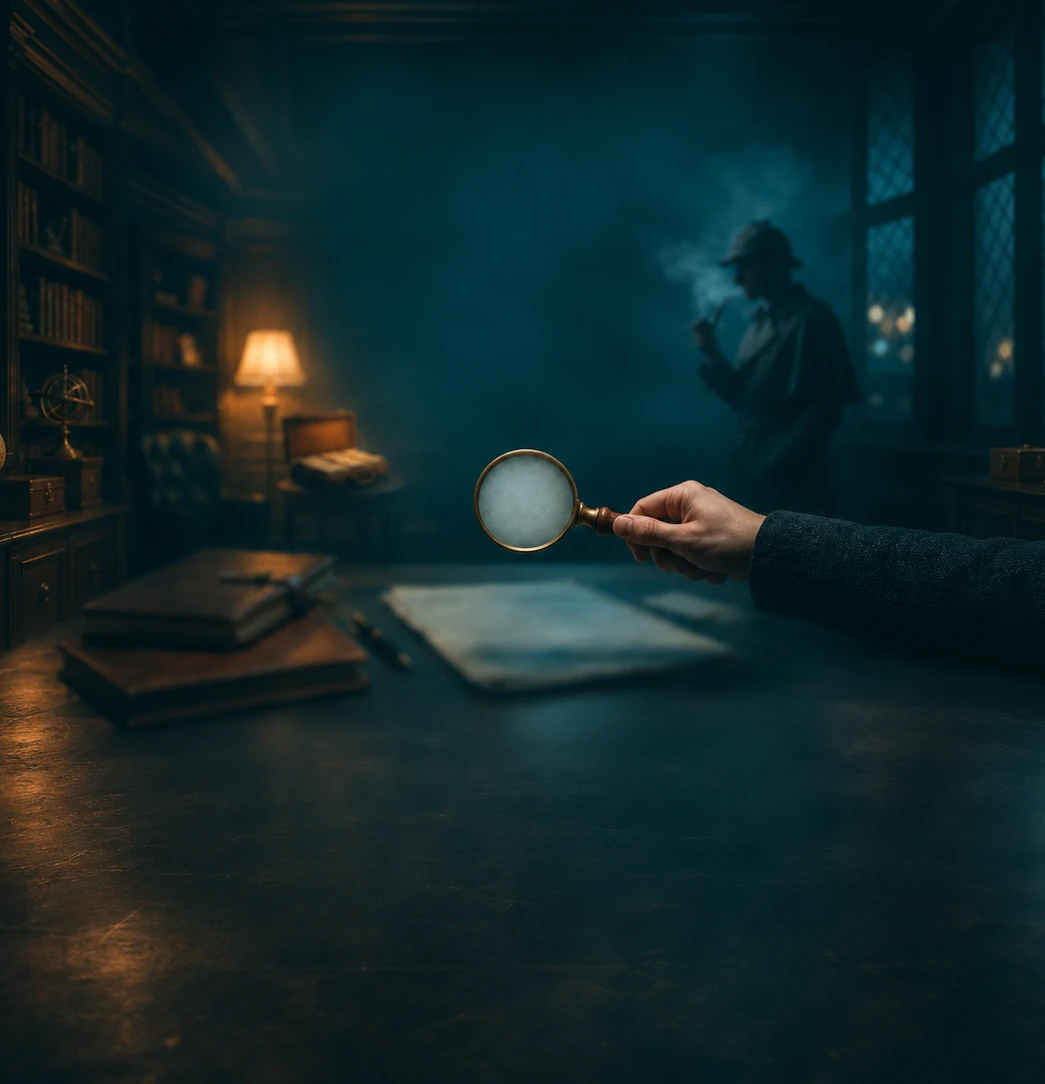
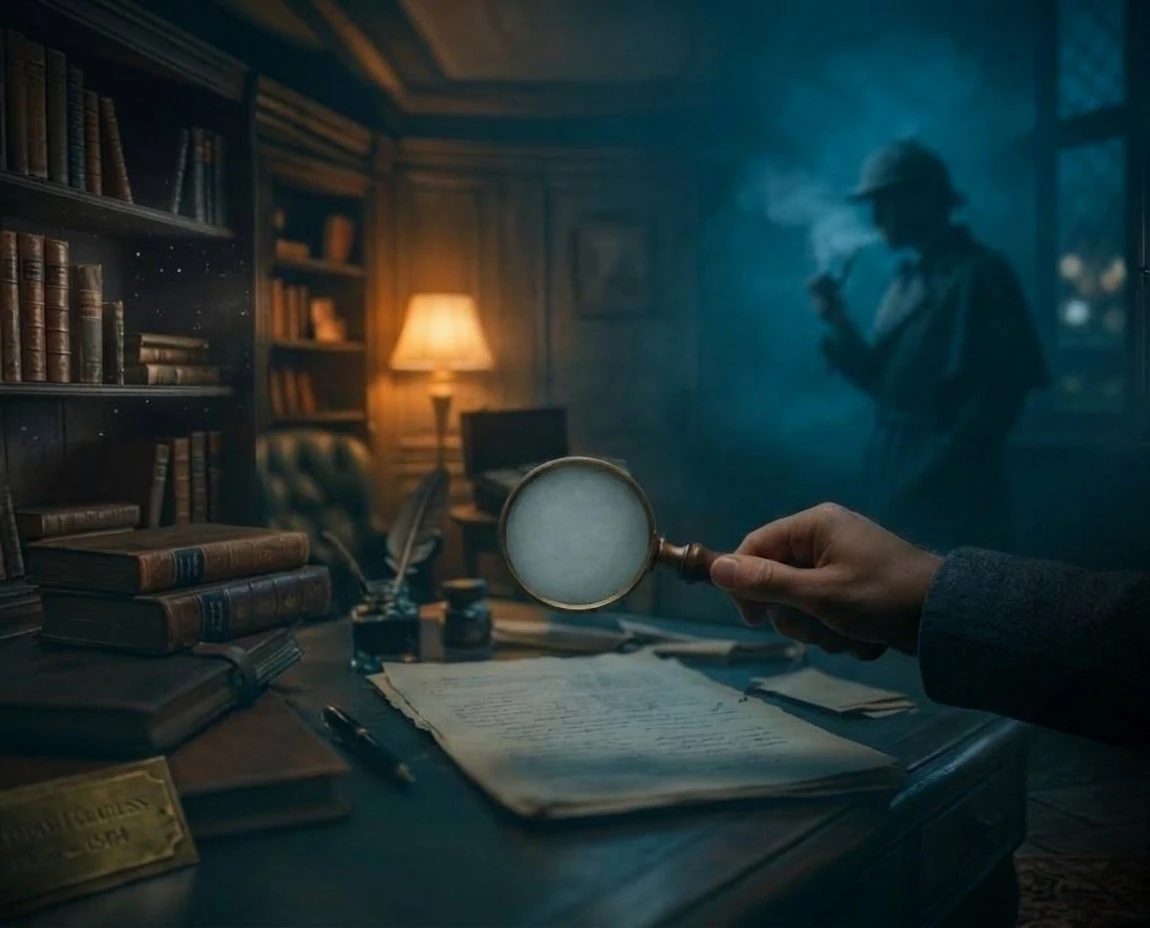
wip(landing): the new background photograph (1150x928), lens anchored as before — not pushed, waits for Nuno to see it (03/11/2026)

diff --git a/src/app/landing-fixed.css b/src/app/landing-fixed.css
@@ -8,7 +8,7 @@
   --vh:1vh; --bar-h:calc(56px + env(safe-area-inset-bottom,0px));
   --lx:50vw; --ly:calc(var(--vh) * 46); --ld:calc(var(--vh) * 18);
   --d:clamp(40px,calc(var(--ld) * .39),80px); --gap:calc(var(--d) * .37); --first:calc(var(--ld) / 2 + var(--gap) + var(--d) / 2); --step:calc(var(--d) + var(--gap));
-  --pw:calc(var(--ld) / .102); --ph:calc(var(--pw) * 1.0373206);
+  --pw:calc(var(--ld) / .1409); --ph:calc(var(--pw) * .8069565217);
   --t-xl:clamp(1.35rem,2.6vw,2.2rem); --t-l:1.22rem; --t-m:1.02rem; --t-s:.9rem; --t-xs:.76rem;
   color-scheme:dark;}
 .fx-root * {box-sizing:border-box}
@@ -18,7 +18,7 @@
 .fx-root .fx-bg {position:fixed;inset:0;z-index:0;background:#031c23;overflow:hidden}
 .fx-root .fx-bg .fx-blur {position:absolute;inset:-6%;width:112%;height:112%;max-width:none;object-fit:cover;object-position:50% 60%;}
 /* the blur, darkening and desaturation are baked into lens-photo-blur.webp (a filter on a window-sized layer is what a throttled phone chokes on) */
-.fx-root .fx-bg .fx-photo {position:absolute;max-width:none;width:var(--pw);height:var(--ph);left:calc(var(--lx) - var(--pw) * .504);top:calc(var(--ly) - var(--ph) * .461);-webkit-mask-image:linear-gradient(90deg,transparent,#000 9%,#000 91%,transparent),linear-gradient(180deg,transparent,#000 8%,#000 90%,transparent);-webkit-mask-composite:source-in;mask-image:linear-gradient(90deg,transparent,#000 9%,#000 91%,transparent),linear-gradient(180deg,transparent,#000 8%,#000 90%,transparent);mask-composite:intersect}
+.fx-root .fx-bg .fx-photo {position:absolute;max-width:none;width:var(--pw);height:var(--ph);left:calc(var(--lx) - var(--pw) * .5022);top:calc(var(--ly) - var(--ph) * .5733);-webkit-mask-image:linear-gradient(90deg,transparent,#000 9%,#000 91%,transparent),linear-gradient(180deg,transparent,#000 8%,#000 90%,transparent);-webkit-mask-composite:source-in;mask-image:linear-gradient(90deg,transparent,#000 9%,#000 91%,transparent),linear-gradient(180deg,transparent,#000 8%,#000 90%,transparent);mask-composite:intersect}
 .fx-root .fx-bg::after {content:"";position:absolute;inset:0;background:linear-gradient(180deg,rgba(3,28,35,.55) 0,rgba(3,28,35,.15) 28%,rgba(3,28,35,0) 45%,rgba(3,28,35,.3) 100%)}
 .fx-root .fx-nav {position:fixed;z-index:3;left:0;right:0;top:env(safe-area-inset-top,0px);display:grid;grid-template-columns:1fr auto 1fr;align-items:center;gap:1rem;padding:16px var(--gr) 0 var(--gl);max-width:1440px;margin:0 auto}
 .fx-root .fx-brand {display:flex;align-items:center;gap:.6rem;text-decoration:none;color:#fff;font-family:var(--wordmark);font-weight:700;font-size:1.15rem;justify-self:start}

diff --git a/src/lib/landing-fixed.test.ts b/src/lib/landing-fixed.test.ts
@@ -57,10 +57,10 @@ function evalCss(expr: string, vw: number, vh: number): number {
 const SIZES: [number, number][] = [[1280, 720], [1366, 768], [1440, 790], [1440, 900], [1536, 864], [1920, 1080], [390, 844]];
 
 describe('the lens: CSS formulas = lensLayout = the mockup\'s numbers', () => {
-  it('the photograph is 1045 x 1084 and its lens sits at 50.4% / 46.1%, 10.2% wide (measured from the file)', () => {
-    expect(PHOTO).toEqual({ width: 1045, height: 1084, lensX: 0.504, lensY: 0.461, lensD: 0.102 });
+  it('the photograph is 1150 x 928 and its lens sits at 50.22% / 57.33%, 14.09% wide (measured from the file)', () => {
+    expect(PHOTO).toEqual({ width: 1150, height: 928, lensX: 0.5022, lensY: 0.5733, lensD: 0.1409 });
     expect(SCREEN_LENS).toEqual({ y: 0.46, d: 0.18 });
-    expect(PHOTO.height / PHOTO.width).toBeCloseTo(1.0373206, 6);
+    expect(PHOTO.height / PHOTO.width).toBeCloseTo(0.8069565217, 6);
   });
 
   it('at 1440x900 the lens is 162 px, centred at 720 / 414, and the photograph is drawn so that ITS lens is that one', () => {

diff --git a/src/lib/landing-fixed.ts b/src/lib/landing-fixed.ts
@@ -5,8 +5,8 @@
 // as CSS `calc()` on `dvh`/`vw` (landing-fixed.module.css), so the first paint is already right, nothing waits for an image and nothing moves afterwards (CLS 0). `lensLayout` is the JavaScript form of the
 // same formulas: the test compares it with the mockup's numbers at several window sizes, and with the CSS formulas by evaluating them.
 
-/** The photograph (public/landing/lens-photo.*): 1045 x 1084 px; the lens in it, measured from the file. */
-export const PHOTO = { width: 1045, height: 1084, lensX: 0.504, lensY: 0.461, lensD: 0.102 } as const;
+/** The photograph (public/landing/lens-photo.*): 1150 x 928 px (03/11/2026: the one Nuno supplied); the lens in it, measured from the file. */
+export const PHOTO = { width: 1150, height: 928, lensX: 0.5022, lensY: 0.5733, lensD: 0.1409 } as const;
 
 /** Where the lens must sit on the screen and how big it is: 46% down and 18% of the window's height across (Nuno's brief; the position was right, 03/11/2026: left alone). */
 export const SCREEN_LENS = { y: 0.46, d: 0.18 } as const;

diff --git a/src/components/landing-fixed/FixedLanding.tsx b/src/components/landing-fixed/FixedLanding.tsx
@@ -275,7 +275,7 @@ export function FixedLanding({ initialMode, signedIn, children }: { initialMode:
           <picture>
             <source srcSet="/landing/lens-photo.avif" type="image/avif" />
             <source srcSet="/landing/lens-photo.webp" type="image/webp" />
-            <img className="fx-photo" src="/landing/lens-photo.webp" alt="" decoding="async" fetchPriority="high" width={1045} height={1084} />
+            <img className="fx-photo" src="/landing/lens-photo.webp" alt="" decoding="async" fetchPriority="high" width={1150} height={928} />
           </picture>
           {/* eslint-enable @next/next/no-img-element */}
         </div>
